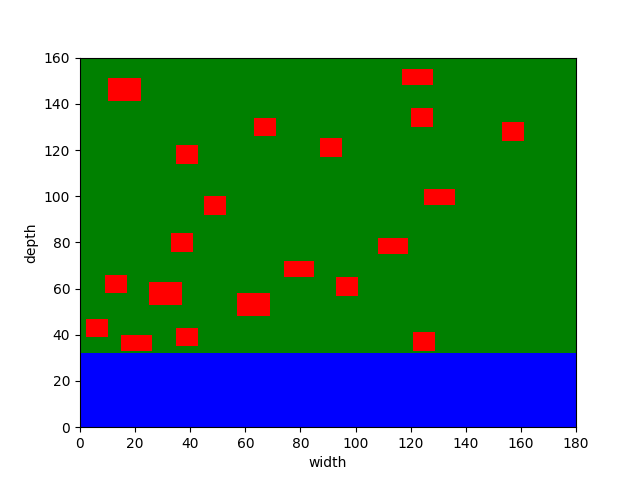
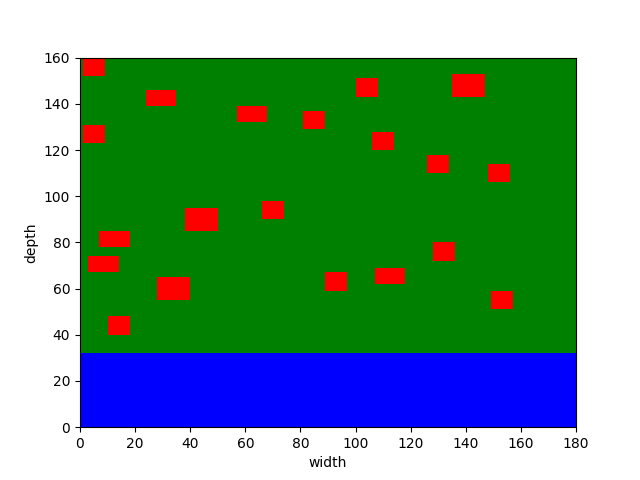
moving hillclimber improved

diff --git a/code/algorithms/moving_hillclimber.py b/code/algorithms/moving_hillclimber.py
@@ -46,12 +46,11 @@ class Moving_Hillclimber:
             # find house with the least freespace
             moving_house = self.return_smallest_freespace()
 
-
             # return a random direction and a random house
             given_direction = self.random_direction()
             
             # get a random house from all houses
-            #moving_house = self.random_house(self.houses)
+            # moving_house = random.choice(self.houses)
 
             # assign this house to the given direction
             self.assign_random_direction(given_direction, moving_house)
@@ -63,8 +62,6 @@ class Moving_Hillclimber:
             self.area.houseprices(self.houses)
 
             total_price = self.area.get_networth(self.houses)
-
-            # print(total_price)
 
             if total_price > best_value:
                 best_value = total_price
@@ -92,14 +89,6 @@ class Moving_Hillclimber:
 
         self.area.load_houses(self.houses)
         self.area.write_output(self.houses)
-                
-
-    def random_house(self, houses):
-        """
-        Randomly returns a house object.
-        """
-        random_house = random.choice(houses)
-        return random_house
       
 
     def random_direction(self):
@@ -108,9 +97,7 @@ class Moving_Hillclimber:
         """
         direction = ["up", "down", "left", "right"]
 
-        random_direction = random.choice(direction)
-
-        return random_direction
+        return random.choice(direction)
 
 
     def return_new_coordinates(self, random_direction, random_house):
@@ -173,6 +160,7 @@ class Moving_Hillclimber:
 
         return random_house_coordinates
 
+
     def return_smallest_freespace(self):
 
         """
@@ -182,8 +170,26 @@ class Moving_Hillclimber:
         smallest_freespace = 180
         for house in self.houses:
             freespace = self.area.closest_house(house, self.houses)[1]
-            if freespace < smallest_freespace:
+            if freespace < smallest_freespace and self.check_moveability(house):
                 smallest_freespace = freespace
                 house_smallest_freespace = house
 
         return house_smallest_freespace
+
+
+    def check_moveability(self, house):
+        """
+            Checks if a house can be moved in at least one direction.
+        """
+        directions = ["up", "down", "left", "right"]
+
+        for direction in directions:
+            house.corner_lowerleft = self.return_new_coordinates(direction,house)
+            # check if a house can be moved
+            if self.area.invalid(house, self.houses) == False and self.area.overlap(house, self.houses) == False:
+                house.corner_lowerleft = self.undo_housemove(direction, house)
+                return True
+            house.corner_lowerleft = self.undo_housemove(direction, house)
+
+        # house cannot be moved
+        return False

diff --git a/code/algorithms/annealing.py b/code/algorithms/annealing.py
@@ -38,10 +38,7 @@ class Simulated_Annealing(Moving_Hillclimber):
         y_axes = []
 
         solution = copy.deepcopy(self.houses)
-
-        self.area.houseprices(self.houses)
         solution_totalprice = self.area.get_networth(self.houses)
-        print(solution_totalprice)
 
         while temp > final_temp:
 
@@ -49,7 +46,7 @@ class Simulated_Annealing(Moving_Hillclimber):
                     
                 # make n changes to the positions of random houses
                 given_direction = self.random_direction()
-                moving_house = self.random_house(self.houses)
+                moving_house = random.choice(self.houses)
                 self.assign_random_direction(given_direction, moving_house)
 
             # calculate the new final house prices
